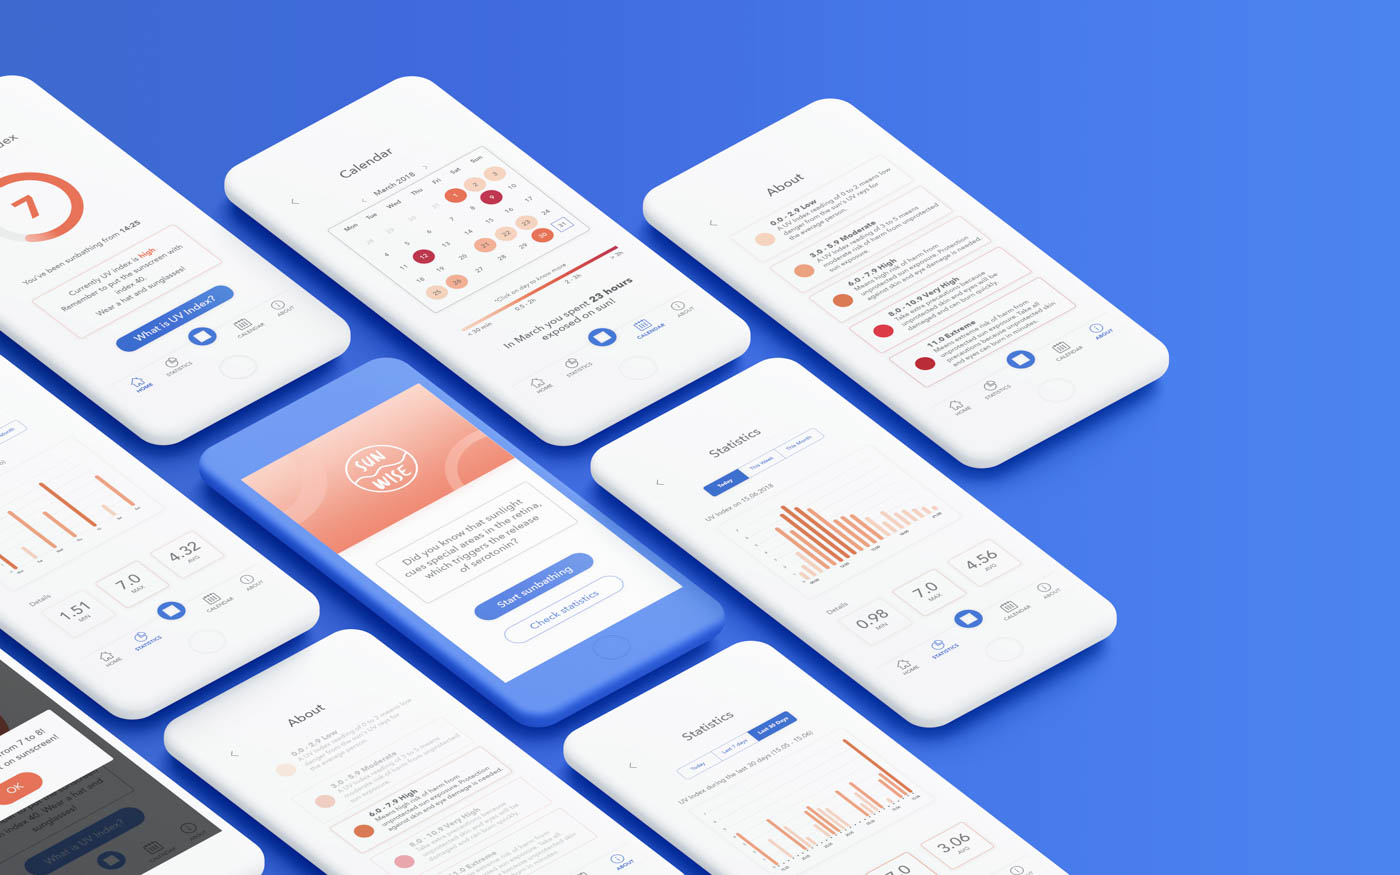
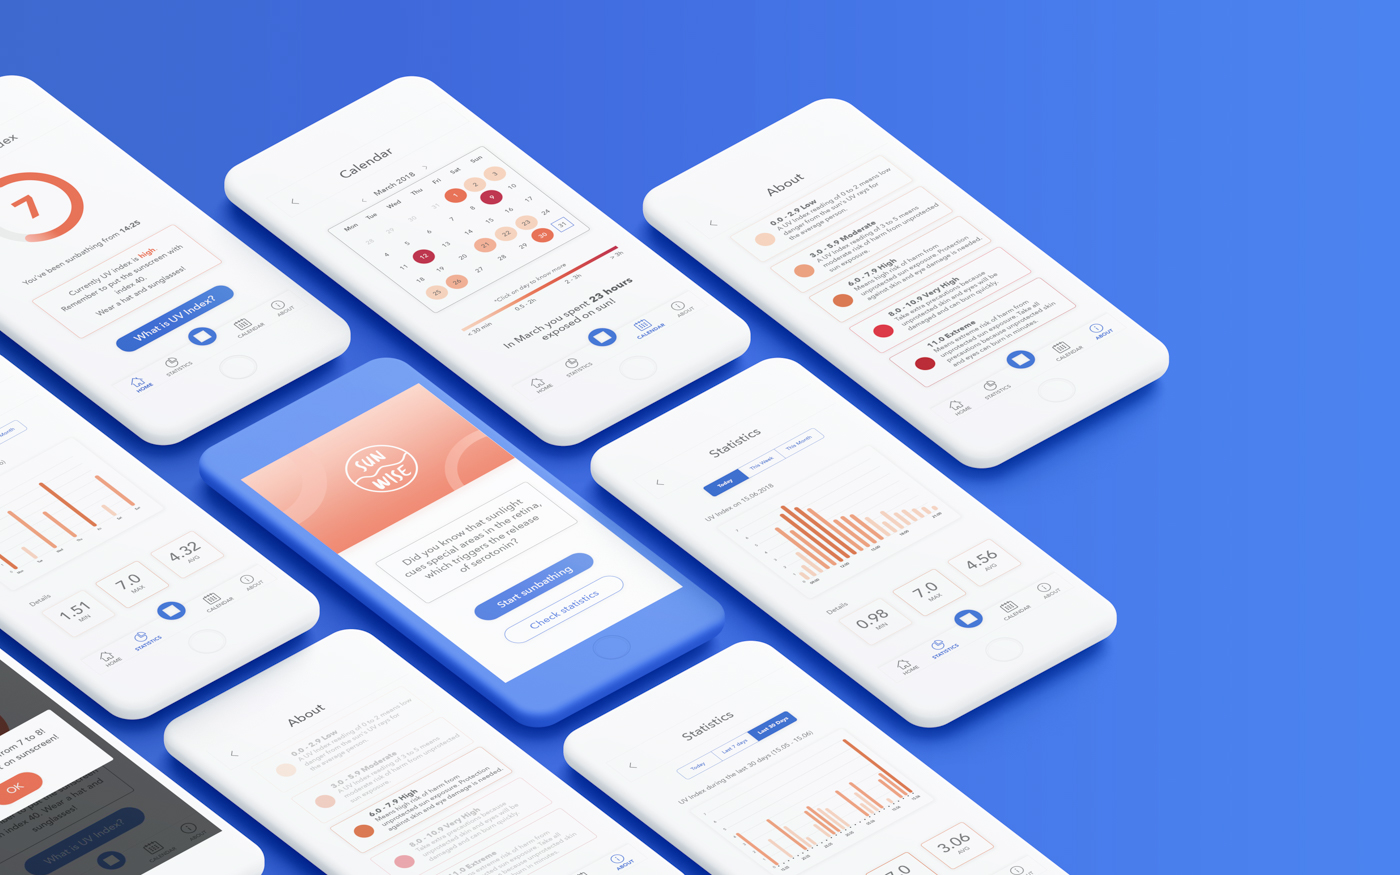
new pic

diff --git a/src/App.js b/src/App.js
@@ -30,7 +30,7 @@ class App extends Component {
 
       <Route exact path="/" component={Home} />
       <Route exact path="/sunWise" component={() => <div><ProjectOverview
-        bgImage={require("./assets/img/SunWise/sunwise-main1.png")}
+        bgImage={require("./assets/img/SunWise/sunwise-main.jpg")}
         title="SunWise"
         history={this.props.history}
         description="Protect your skin from high UV index. Know when to stop sunbathing."

diff --git a/src/ProjectSunWise/ProjectSunWise.js b/src/ProjectSunWise/ProjectSunWise.js
@@ -8,7 +8,7 @@ class ProjectSunWise extends React.Component {
 
     return(
       <div className="projectContainer">
-        <img src={require("./../assets/img/SunWise/sunwise-main.png")} className="mainImg"/>
+        <img src={require("./../assets/img/SunWise/sunwise-main.jpg")} className="mainImg"/>
 
         <div className="">
           <div className="row">
